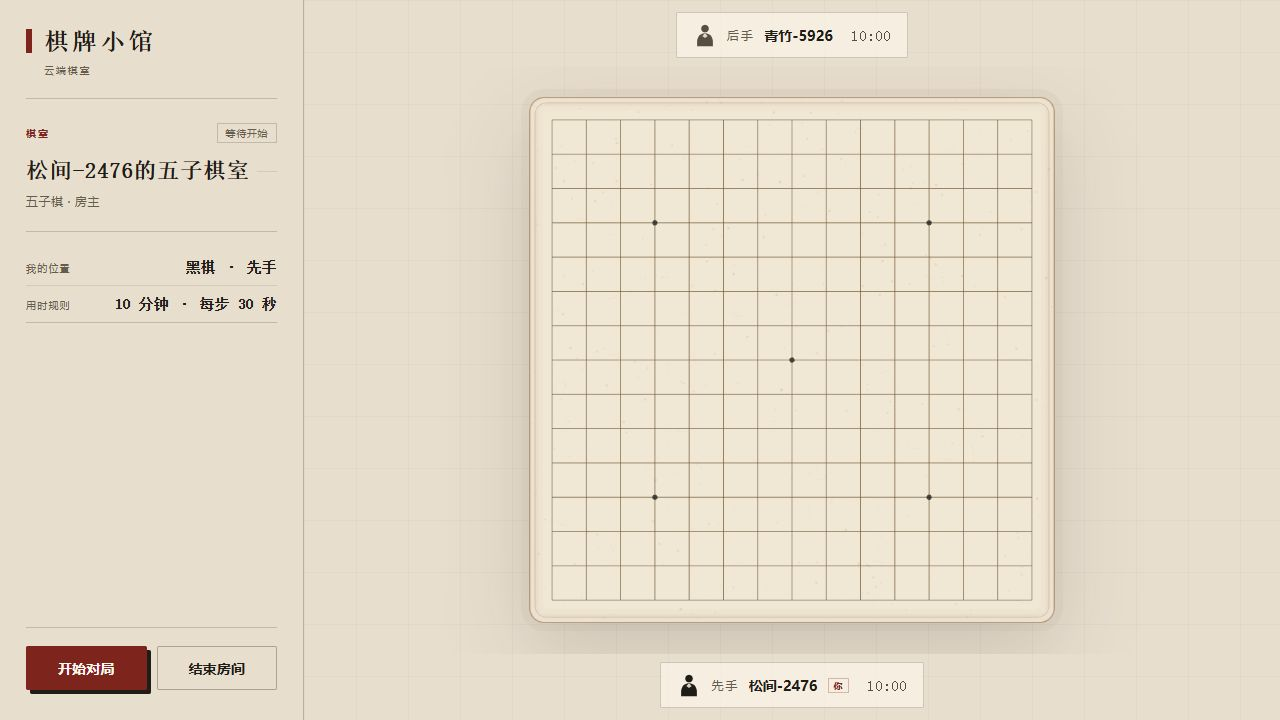
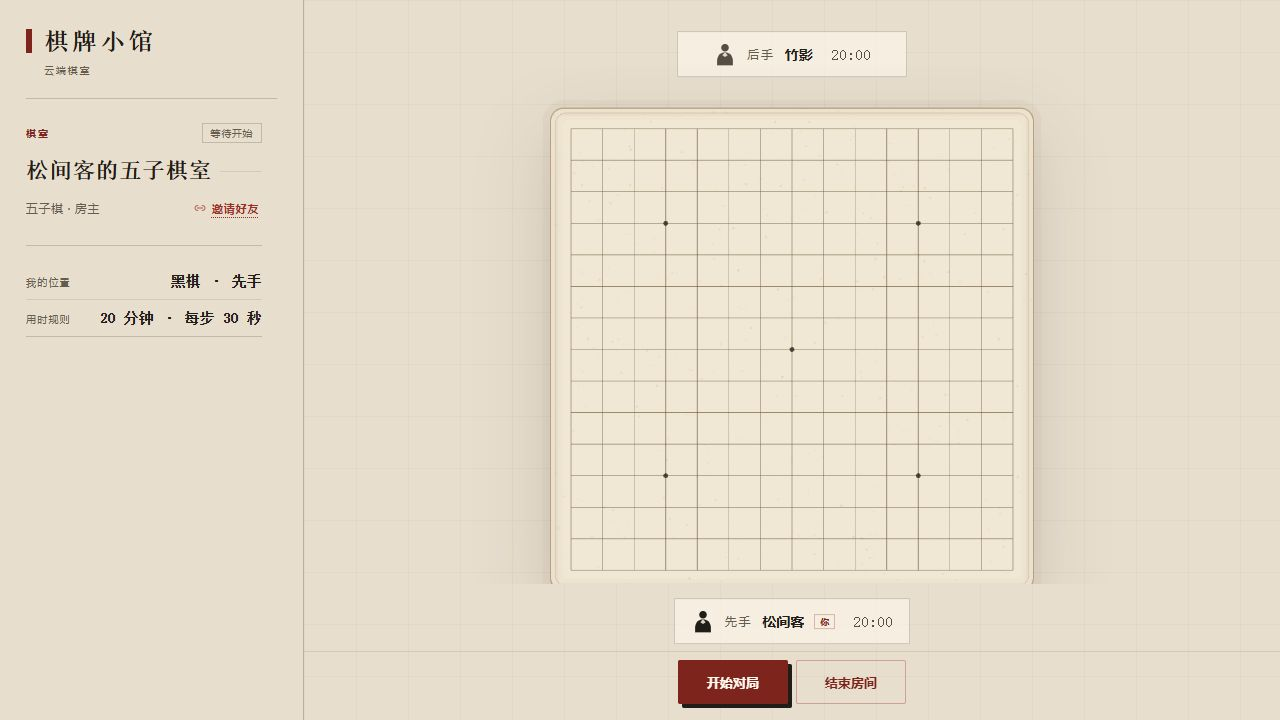
docs: refresh store screenshots

diff --git a/screenshots/README.md b/screenshots/README.md
@@ -1,21 +1,35 @@
 # Screenshots
 
-The `store-*.png` files are store-ready captures from the public cloud service
-at 1280x720:
+## Store listings
+
+The `store-*.png` files are store-ready captures of the public service at
+`https://1.92.64.227`. Every image is 1280x720 and shows a real online state,
+not a static mock.
 
 | File | Content |
 | --- | --- |
-| `store-01-lobby.png` | Public lobby |
-| `store-02-create-room.png` | Room creation |
-| `store-03-waiting-room.png` | Waiting table |
-| `store-04-players-ready.png` | Both seats occupied |
-| `store-05-gomoku-start.png` | Gomoku opening |
-| `store-06-gomoku-match.png` | Gomoku match |
-| `store-07-opponent-view.png` | Opponent board orientation |
-| `store-08-result-card.png` | Match result card |
+| `store-01-lobby.png` | Desktop lobby |
+| `store-02-create-room.png` | Room creation, access mode, total time, and per-move limit |
+| `store-03-waiting-room.png` | Waiting room with one empty seat |
+| `store-04-players-ready.png` | Both seats occupied and ready to start |
+| `store-05-gomoku-start.png` | Gomoku opening with the current turn and action bar |
+| `store-06-gomoku-match.png` | Gomoku match in progress |
+| `store-07-opponent-view.png` | Gomoku from the second player's seat |
+| `store-08-result-card.png` | Finished-match result card |
 | `store-09-xiangqi-match.png` | Chinese chess opening |
-| `store-10-xiangqi-move.png` | Chinese chess move |
-| `store-11-xiangqi-opponent-view.png` | Chinese chess opponent view |
+| `store-10-xiangqi-move.png` | Chinese chess with the previous move highlighted |
+| `store-11-xiangqi-opponent-view.png` | Chinese chess from the second player's seat |
+| `store-12-settings.png` | Nickname, low-motion, effects, board-size, and theme settings |
 
-The `undo-*.png` and `opponent-left.png` files are feature-validation evidence
-rather than listing screenshots.
+## Mobile evidence
+
+`last-move-mobile.png` is a 585x1266 mobile capture kept as layout evidence; it
+is not a store listing image. `last-move-replay.png` is a 2160x1350 desktop
+feature capture and likewise does not replace a 1280x720 store image.
+
+## Regression and feature evidence
+
+The `undo-*.png` and `opponent-left.png` files document feature behavior rather
+than store listings. Additional password, settlement, and replay checks are in
+`regression/`. `settings-nickname.png` is an earlier settings-page working
+capture; `store-12-settings.png` is the current store-ready version.

diff --git a/README.md b/README.md
@@ -31,11 +31,11 @@ Source:    https://github.com/lieng618/dbx-mini-games
 
 | 大厅 | 创建房间 |
 | --- | --- |
-| ![公共大厅](screenshots/store-01-lobby.png) | ![创建房间](screenshots/store-02-create-room.png) |
+| ![新版公共大厅](screenshots/store-01-lobby.png) | ![创建房间与计时设置](screenshots/store-02-create-room.png) |
 
 | 五子棋 | 中国象棋 |
 | --- | --- |
-| ![五子棋对局](screenshots/store-06-gomoku-match.png) | ![中国象棋对局](screenshots/store-10-xiangqi-move.png) |
+| ![五子棋对局与操作栏](screenshots/store-06-gomoku-match.png) | ![中国象棋上一手高亮](screenshots/store-10-xiangqi-move.png) |
 
 更多商店截图和用途见 [`screenshots/README.md`](screenshots/README.md)。
 隐私和支持说明见 [`PRIVACY.md`](PRIVACY.md)、[`SUPPORT.md`](SUPPORT.md)。
